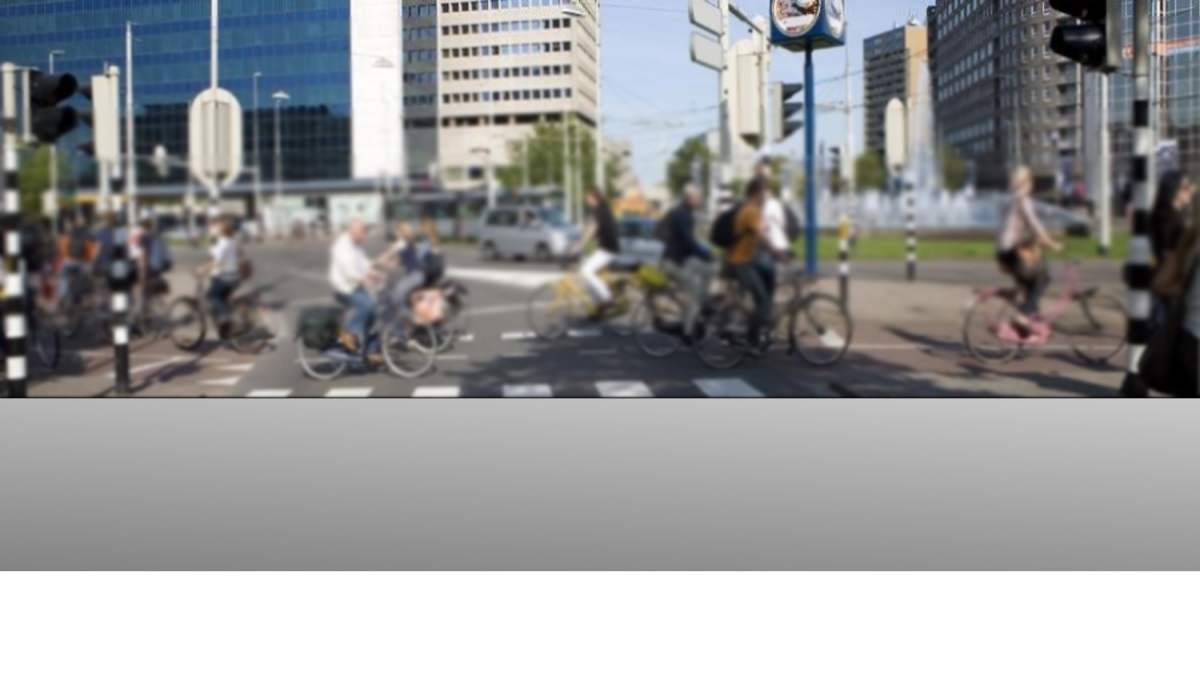
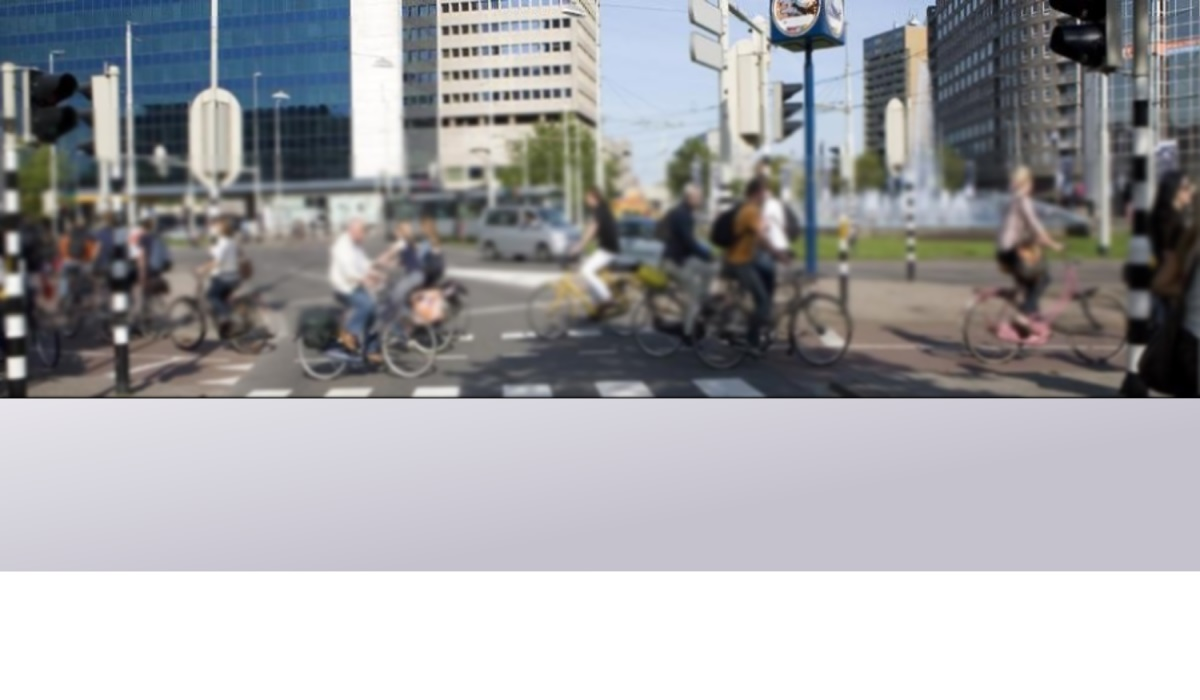
stylesheet, another background.update2

Changed region(s): [[0.0, 0.57, 1.0, 0.84]]

diff --git a/src/Stylesheet.css b/src/Stylesheet.css
@@ -26,7 +26,7 @@
 }
 .root{
     -fx-spacing: 20;
-    -fx-background-image: url("afbeeldingen/backgroundgrey.jpg");
+    -fx-background-image: url("afbeeldingen/backgroundgrey2.jpg");
     -fx-text-fill: #ffffff;
     -fx-font-style: oblique ;
     -fx-font-size: 20px;
@@ -51,8 +51,10 @@
 #fancytext {
     -fx-font: 80px Tahoma;
     -fx-fill: black;
-    -fx-stroke: whitesmoke;
-    -fx-stroke-width: 1;
+    -fx-stroke: rgba(0, 0, 0, 0.93);
+    -fx-stroke-width: 10;
+
+    -fx-font-family: fantasy;
 
 }
 
